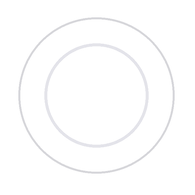
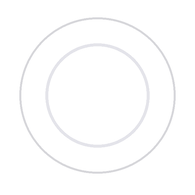
判定枠と音符をぴったり重ね、選曲のスコアランクをE〜SSの字にする
・判定の場所を (619.5, 388.5) にして、判定の瞬間に音符の画像と判定枠の画像が同じ左上 (522, 291) に重なるようにした
・判定枠の位置は JudgeX・NoteY から決める（演奏・特訓・段位・2人プレイで共通）
・シンプルスキンの判定枠の絵を、音符と同じ中心で作り直した
・絵が無いスキンの記録パネルのスコアランクを、粋・雅・極 から E〜SS に変えた

Claude-Session: https://claude.ai/code/session_01DAU9tpBiF8CGAJXqk8DqYG

diff --git a/TakeTaikoSimulator/Scenes/PlayScene.cs b/TakeTaikoSimulator/Scenes/PlayScene.cs
@@ -19,8 +19,14 @@ namespace TakeTaikoSimulator.Scenes
         private const float LaneX = 494;          // レーンの左端
         private const float LaneY = 276;          // レーン(と左パネル)の上端
         private const float LaneHeight = 264;
-        private const float JudgeX = 620;         // 判定枠の中心x
-        private const float NoteY = 389;          // 音符の中心y
+        // 判定の場所（音符が止まる所＝判定枠の中心＝判定 ±0ms の所。演奏・特訓・段位・2人プレイで共通）
+        //   11/11 たけらい「判定枠ずれてる。ノーツと判定枠ピッタリじゃないと」
+        //     前は 音符 (620, 389)・判定枠の画像の左上 (522, 291) で、音符の画像（左上 522.5, 291.5）と枠の画像が半ピクセルずれていた
+        //     （シンプルスキンは枠の絵が画像の中で 1px 左だったので、合わせて 1.5px ずれていた）。
+        //   OpenTaiko と同じに「判定の瞬間、音符の画像と判定枠の画像は同じ左上に重なる」ようにした。
+        //     判定枠の左上は本家の動画と合わせた (522, 291) のまま。音符のほうを 0.5px 動かして、枠も JudgeX・NoteY から決める。
+        private const float JudgeX = 619.5f;      // 判定枠の中心x（= 522 + 195/2）
+        private const float NoteY = 388.5f;       // 音符の中心y（= 291 + 195/2）
         private const float BarTop = 288;         // 小節線の上端
         private const float BarBottom = 488;      // 小節線の下端
         private const float SeTextY = 490;        // 音符の下の文字の上端
@@ -2143,10 +2149,10 @@ namespace TakeTaikoSimulator.Scenes
         // 判定枠(レーンの光より上に描く。光っていても判定枠が見えるように)
         private static void DrawJudgeFrame()
         {
-            // 枠の画像の左上は (522, 291)。音符の流れ・判定時刻・花火の原点は変えない。
-            //   11/7：本家（TaikøNauts の六段の動画 26秒）と1pxずつずらして重ねたら、ここがいちばん合った
-            //   （前は (JudgeX + 1 − 97.5, NoteY − 97.5) で、本家より右に2px・下に1px ずれていた）
-            const float frameLeft = 522f, frameTop = 291f;
+            // 枠の画像の左上は、判定の瞬間の音符の画像の左上と同じ（= (522, 291)）。必ず JudgeX・NoteY から決める。
+            //   11/7：本家（TaikøNauts の六段の動画 26秒）と1pxずつずらして重ねたら、(522, 291) がいちばん合った
+            //   11/11：音符のほうを (522, 291) に合わせた（JudgeX・NoteY の説明）
+            const float frameLeft = JudgeX - NoteHalf, frameTop = NoteY - NoteHalf;
             if (!SkinManager.Draw(JudgeFrameImage, frameLeft, frameTop))
             {
                 // 画像が無いとき(システムのスキン)は、本当の判定の場所(JudgeX)に描く

diff --git a/TakeTaikoSimulator/UI/SongRecordPanel.cs b/TakeTaikoSimulator/UI/SongRecordPanel.cs
@@ -128,8 +128,13 @@ public static class SongRecordPanel
 
     private static void RankFallback(int rank, Rectangle rect, float alpha)
     {
-        Color[] colors = { Color.White, new(204, 140, 83, 255), Color.LightGray, Color.Gold, Color.Pink, Color.Purple, Color.Yellow };
-        Label(rank == 7 ? "極" : rank >= 4 ? "雅" : "粋", rect, rect.Height * 0.8f, colors[Math.Clamp(rank - 1, 0, 6)], alpha);
+        // 絵が無いスキン（シンプル）は、演奏・リザルトのスコアランクと同じ E〜SS の字と色で出す
+        //   11/11 たけらい「スコアランク英語にして。なんでここだけ」（前は 粋・雅・極 の字だった。tools/skin-gen/play.py の RANKS と同じ）
+        string[] letters = { "E", "D", "C", "B", "A", "S", "SS" };
+        Color[] colors = { new(150, 150, 160, 255), new(120, 170, 210, 255), new(110, 200, 140, 255), new(240, 200, 70, 255),
+            new(255, 150, 60, 255), new(255, 110, 150, 255), new(190, 130, 255, 255) };
+        int i = Math.Clamp(rank - 1, 0, 6);
+        Label(letters[i], rect, rect.Height * (i == 6 ? 0.62f : 0.8f), colors[i], alpha);
     }
 
     private static void CrownFallback(SongClearType clear, Rectangle rect, float alpha)

diff --git a/TakeTaikoSimulator/Scenes/SongSelectScene.cs b/TakeTaikoSimulator/Scenes/SongSelectScene.cs
@@ -964,7 +964,7 @@ namespace TakeTaikoSimulator.Scenes
 
             IEnumerable<string> Texts()
             {
-                yield return "演奏ゲーム難易度ジャンルを最近遊んだ曲最近追加された曲お気に入りカテゴリをえらぶとじるランダムにえらぶ全曲もどるオプション易普難鬼裏表なし★♥◀0123456789えらぶ決定1P検索読み込み中件一覧更新設定開閉入外当自己ベスト粋雅極かんたんふつうむずかしいおに";
+                yield return "演奏ゲーム難易度ジャンルを最近遊んだ曲最近追加された曲お気に入りカテゴリをえらぶとじるランダムにえらぶ全曲もどるオプション易普難鬼裏表なし★♥◀0123456789えらぶ決定1P検索読み込み中件一覧更新設定開閉入外当自己ベストEDCBASかんたんふつうむずかしいおに";
                 foreach (SongCategory category in categories)
                 {
                     yield return category.Title;

diff --git a/TakeTaikoSimulator/Scenes/EntryScene.cs b/TakeTaikoSimulator/Scenes/EntryScene.cs
@@ -54,7 +54,7 @@ public sealed class EntryScene : Scene
             "DataLoad_Panel.png", "DataLoad_Text.png", "PlayerData_Panel.png", "Cursor_Left.png", "Cursor_Right.png", "Background_Fireworks.png" });
         PrepareGuide();
         MenuSkin.Preload(MenuSkin.SongFolder, SongRecordPanel.Images);
-        FontManager.PreloadSkinMain(new[] { "使用するデータを選んでくださいプレイヤー123記録なしおに裏譜面クリアフルコンボドンダフル記録が読めません左右カッえらぶドン決定戻る終了太鼓をたたいてスタート" });
+        FontManager.PreloadSkinMain(new[] { "使用するデータを選んでくださいプレイヤー123記録なしおに裏譜面クリアフルコンボドンダフル記録が読めません左右カッえらぶドン決定戻る終了太鼓をたたいてスタートEDCBAS" });
         for (int i = 0; i < 3; i++)
         {
             registered[i] = PlayerDataStore.HasName(i + 1);

diff --git a/tools/skin-gen/play.py b/tools/skin-gen/play.py
@@ -6,7 +6,7 @@ import numpy as np
 
 E = 'Image/04.EnsoGame/'
 NC = (97.5, 95.5)  # 音符・判定枠の画像の中心(A-Style と同じ。判定の位置と合う)
-JF = (96.5, 95.5)  # 判定枠だけ：本体が 1px 右に描くので、1px 左に寄せて音符の中心にそろえる
+JF = NC            # 判定枠：音符と同じ中心。本体は判定の瞬間、音符の画像と枠の画像を同じ左上に重ねる(11/11)
 
 def note_disc(c, cx, cy, r, color, dark):
     # 平らな丸：外に細い黒、白い縁、中は1色
